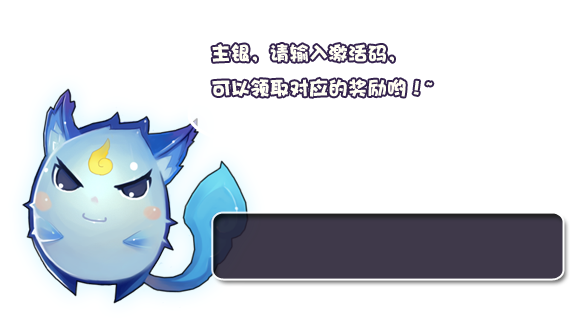
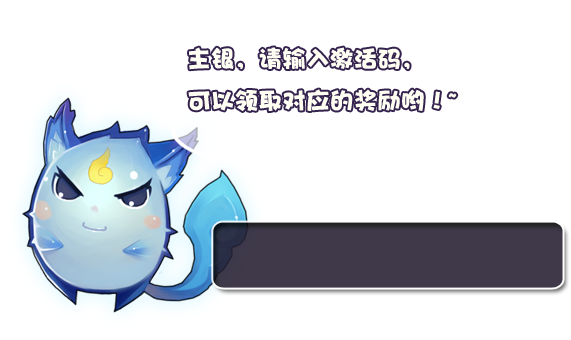
修改兑换界面

diff --git a/client/cocos2d-x-2.2.1/projects/Magpie/Resources/src/model/gameFit.js b/client/cocos2d-x-2.2.1/projects/Magpie/Resources/src/model/gameFit.js
@@ -911,8 +911,8 @@ var fit4Iphone4 = {
         },
         "invitationLayer": {
             "iconSpritePoint": cc.p(360, 520),
-            "okItemPoint": cc.p(360, 220),
-            "editBoxPoint": cc.p(463, 438)
+            "okItemPoint": cc.p(360, 280),
+            "editBoxPoint": cc.p(463, 433)
         },
         "sendMessageLayer": {
             "bgLayerPoint": cc.p(40, 0),
@@ -2186,8 +2186,8 @@ var fit4Iphone5 = {
         },
         "invitationLayer": {
             "iconSpritePoint": cc.p(320, 640),
-            "okItemPoint": cc.p(320, 220),
-            "editBoxPoint": cc.p(423, 558)
+            "okItemPoint": cc.p(320, 330),
+            "editBoxPoint": cc.p(423, 553)
         },
         "sendMessageLayer": {
             "bgLayerPoint": cc.p(0, 0),

diff --git a/client/cocos2d-x-2.2.1/projects/Magpie/Resources/src/view/mainModule/level9BoxLayer.js b/client/cocos2d-x-2.2.1/projects/Magpie/Resources/src/view/mainModule/level9BoxLayer.js
@@ -60,10 +60,9 @@ var Level9BoxLayer = LazyLayer.extend({
         cc.log("Level9Box ccbFnShowBox");
 
         gameData.sound.playEffect(main_scene_image.click_button_sound, false);
+
         this.removeFromParent();
-
         GiftBagLayer.pop(this._data);
-
     }
 
 });
